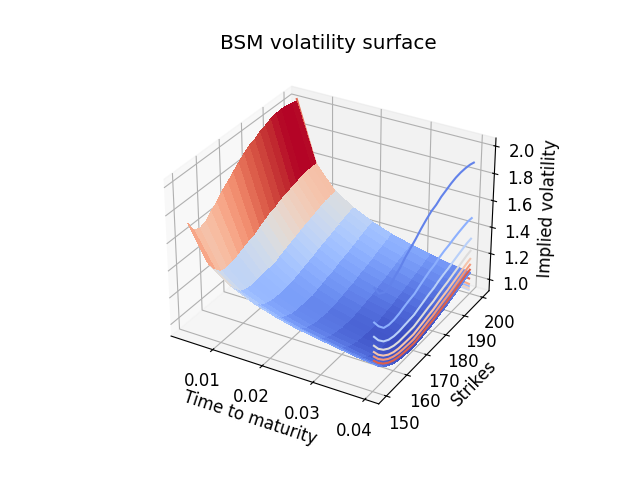
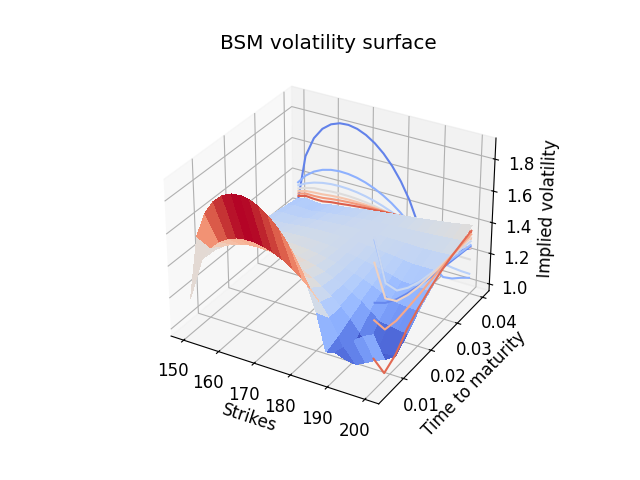
fixed row / col confusion - vol surface still looks off

diff --git a/volatility.cpp b/volatility.cpp
@@ -29,7 +29,7 @@ namespace Volatility
 			volSurface.m_colVals = priceSurface.m_colVals; // strike
 
 			// calibrate the vol surface. 
-			double volGuess{ 0.9 };
+			double volGuess{ 0.4 };
 			Adam adam{}; 
 			for (std::size_t row{ 0 }; row < std::size(volSurface.m_rowVals); ++row)
 			{
@@ -42,15 +42,15 @@ namespace Volatility
 					auto func
 					{
 						[&](double vol) {
-							double price{ Options::Pricing::BSM::call(riskFreeReturn, vol, priceSurface.m_colVals[col], priceSurface.m_rowVals[row], spot, dividendYield) };
+							double price{ Options::Pricing::BSM::call(riskFreeReturn, vol, priceSurface.m_rowVals[row], priceSurface.m_colVals[col], spot, dividendYield) };
 							return (price - truePrice) * (price - truePrice);
 						}
 					};
 					auto deriv
 					{
 						[&](double vol) {
-							double price{ Options::Pricing::BSM::call(riskFreeReturn, vol, priceSurface.m_colVals[col], priceSurface.m_rowVals[row], spot, dividendYield) };
-							return 2 * (price - truePrice) * Options::Pricing::BSM::callVega(riskFreeReturn, vol, priceSurface.m_colVals[col], priceSurface.m_rowVals[row], spot, dividendYield);
+							double price{ Options::Pricing::BSM::call(riskFreeReturn, vol, priceSurface.m_rowVals[row], priceSurface.m_colVals[col], spot, dividendYield) };
+							return 2 * (price - truePrice) * Options::Pricing::BSM::callVega(riskFreeReturn, vol, priceSurface.m_rowVals[row], priceSurface.m_colVals[col], spot, dividendYield);
 						}
 					};
 
@@ -76,41 +76,31 @@ namespace Volatility
 			// initialize the price table
 			using namespace std::string_view_literals;
 			LabeledTable priceSurface("Price surface"sv,
-				"Strikes"sv,
-				21,
 				"Time to maturity"sv,
 				10,
+				"Strikes"sv,
+				21,
 				"European call price"sv
 			);
 			priceSurface.m_table =
-			{ { {25.65,	26.30,	26.95,	27.55,	28.10,	28.60,	29.10,	29.55,	29.95,	30.35},
-				{23.25,	23.95,	24.60,	25.20,	25.75,	26.25,	26.75,	27.20,	27.60,	28.00},
-				{21.00,	21.70,	22.35,	23.00,	23.55,	24.05,	24.55,	25.00,	25.40,	25.80},
-				{18.90,	19.65,	20.30,	20.95,	21.50,	22.00,	22.50,	22.95,	23.35,	23.75},
-				{17.00,	17.75,	18.40,	19.05,	19.60,	20.10,	20.60,	21.05,	21.45,	21.85},
-				{15.20,	16.00,	16.65,	17.30,	17.85,	18.35,	18.85,	19.30,	19.70,	20.10},
-				{13.60,	14.40,	15.05,	15.70,	16.25,	16.75,	17.25,	17.70,	18.10,	18.50},
-				{12.10,	12.90,	13.55,	14.20,	14.75,	15.25,	15.75,	16.20,	16.60,	17.00},
-				{10.75,	11.50,	12.15,	12.80,	13.35,	13.85,	14.35,	14.80,	15.20,	15.60},
-				{9.55,	10.30,	10.95,	11.60,	12.15,	12.65,	13.15,	13.60,	14.00,	14.40},
-				{8.45,	9.20,	9.85,	10.50,	11.05,	11.55,	12.05,	12.50,	12.90,	13.30},
-				{7.45,	8.20,	8.85,	9.50,	10.05,	10.55,	11.05,	11.50,	11.90,	12.30},
-				{6.50,	7.25,	7.90,	8.55,	9.10,	9.60,	10.10,	10.55,	10.95,	11.35},
-				{5.70,	6.45,	7.10,	7.75,	8.30,	8.80,	9.30,	9.75,	10.15,	10.55},
-				{4.95,	5.70,	6.35,	7.00,	7.55,	8.05,	8.55,	9.00,	9.40,	9.80},
-				{4.30,	5.00,	5.65,	6.30,	6.85,	7.35,	7.85,	8.30,	8.70,	9.10},
-				{3.70,	4.40,	5.05,	5.70,	6.25,	6.75,	7.25,	7.70,	8.10,	8.50},
-				{3.15,	3.85,	4.50,	5.15,	5.70,	6.20,	6.70,	7.15,	7.55,	7.95},
-				{2.65,	3.35,	4.00,	4.65,	5.20,	5.70,	6.20,	6.65,	7.05,	7.45},
-				{2.20,	2.90,	3.55,	4.20,	4.75,	5.25,	5.75,	6.20,	6.60,	7.00},
-				{1.80,	2.45,	3.10,	3.75,	4.30,	4.80,	5.30,	5.75,	6.15,	6.55}
+			{ { {25.10,	23.15,	21.25,	19.40,	17.60,	15.85,	14.15,	12.50,	10.90,	9.35,	7.85,	6.40,	5.00,	3.65,	2.35,	1.10,	0.80,	0.65,	0.55,	0.45,	0.35},
+				{26.00,	24.10,	22.25,	20.45,	18.70,	17.00,	15.35,	13.75,	12.20,	10.70,	9.25,	7.85,	6.50,	5.20,	3.95,	2.75,	1.60,	1.20,	1.00,	0.85,	0.70},
+				{26.90,	25.05,	23.25,	21.50,	19.80,	18.15,	16.55,	15.00,	13.50,	12.05,	10.65,	9.30,	8.00,	6.75,	5.55,	4.40,	3.30,	2.30,	1.80,	1.50,	1.25},
+				{27.75,	25.95,	24.20,	22.50,	20.85,	19.25,	17.70,	16.20,	14.75,	13.35,	12.00,	10.70,	9.45,	8.25,	7.10,	6.00,	4.95,	3.95,	3.35,	2.80,	2.35},
+				{28.55,	26.80,	25.10,	23.40,	21.80,	20.25,	18.75,	17.30,	15.90,	14.55,	13.25,	12.00,	10.80,	9.65,	8.55,	7.50,	6.50,	5.55,	4.85,	4.25,	3.75},
+				{29.30,	27.60,	25.90,	24.25,	22.70,	21.20,	19.75,	18.35,	17.00,	15.70,	14.45,	13.25,	12.10,	11.00,	9.95,	8.95,	8.00,	7.10,	6.40,	5.75,	5.15},
+				{30.00,	28.35,	26.65,	25.05,	23.55,	22.10,	20.70,	19.35,	18.05,	16.80,	15.60,	14.45,	13.35,	12.30,	11.30,	10.35,	9.45,	8.60,	7.90,	7.25,	6.65},
+				{30.65,	29.05,	27.35,	25.75,	24.30,	22.90,	21.55,	20.25,	19.00,	17.80,	16.65,	15.55,	14.50,	13.50,	12.55,	11.65,	10.80,	10.00,	9.30,	8.65,	8.05},
+				{31.25,	29.70,	28.00,	26.40,	25.00,	23.60,	22.30,	21.05,	19.85,	18.70,	17.60,	16.55,	15.55,	14.60,	13.70,	12.85,	12.05,	11.30,	10.60,	9.95,	9.35},
+				{31.80,	30.30,	28.60,	27.00,	25.65,	24.30,	23.00,	21.80,	20.65,	19.55,	18.50,	17.50,	16.55,	15.65,	14.80,	14.00,	13.25,	12.55,	11.90,	11.30,	10.75}
+
 			} };
 
-			priceSurface.m_rowVals = { 150, 152.5, 155, 157.5, 160, 162.5, 165,
+			priceSurface.m_colVals = { 150, 152.5, 155, 157.5, 160, 162.5, 165,
 									167.5, 170, 172.5, 175, 177.5, 180, 182.5,
 									185, 187.5, 190, 192.5, 195, 197.5, 200
 			};
-			priceSurface.m_colVals = { 1.0 / 250.,2.0 / 250. ,3.0 / 250. ,4.0 / 250. ,5.0 / 250. ,
+			priceSurface.m_rowVals = { 1.0 / 250.,2.0 / 250. ,3.0 / 250. ,4.0 / 250. ,5.0 / 250. ,
 										6.0 / 250. ,7.0 / 250. ,8.0 / 250. ,9.0 / 250., 10.0 / 250. };
 
 			const double dividendYield = 0.0053;
